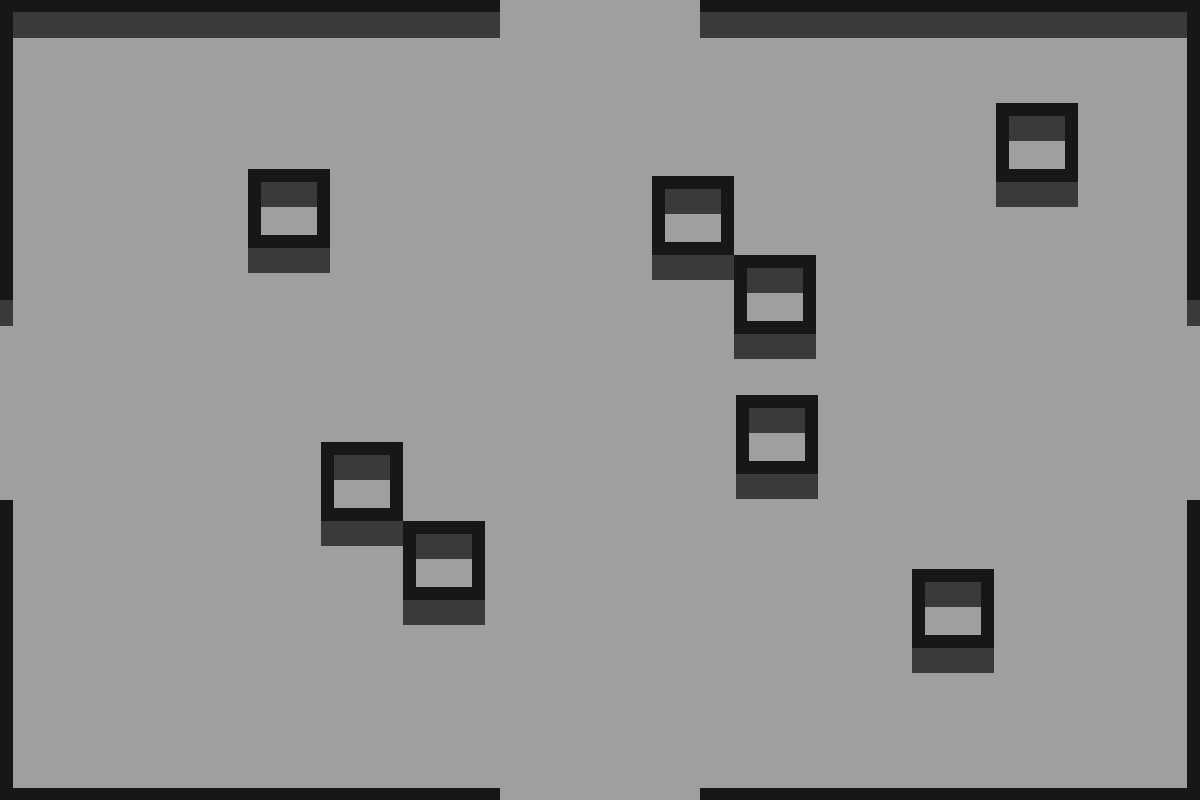
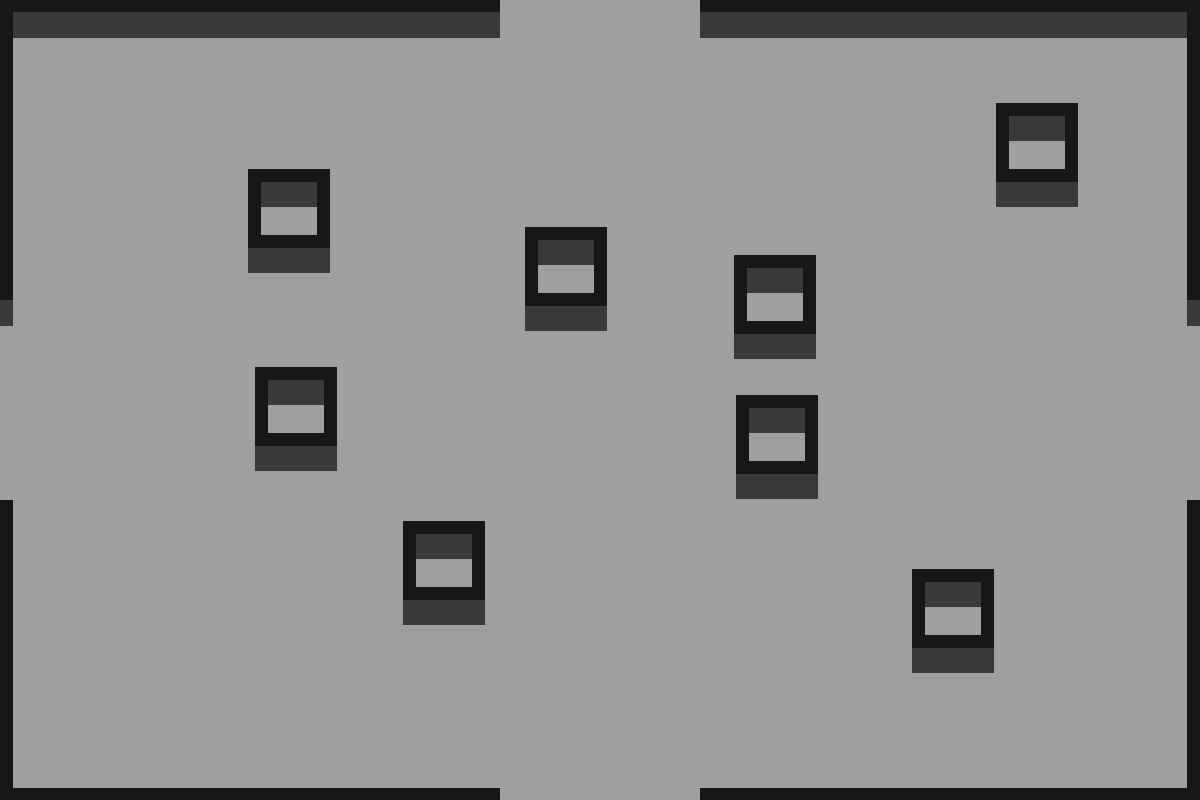
Zmieniona mapa, poprawione chodzenie Zombie

Changed region(s): [[0.4317, 0.2188, 0.6167, 0.4375], [0.185, 0.4375, 0.3392, 0.6875]]

diff --git a/Engine/Zombie.cpp b/Engine/Zombie.cpp
@@ -27,7 +27,7 @@ void Zombie::PreMovement(float dt, const Object& playerObject, std::vector<Obsta
 			aimsUp = false;
 			aimsDown = true;
 			
-			Movement(false, false, false, true, dt, playerObject, obstacles, enemies, dirX, dirY);
+			Movement(false, false, false, true, dt, playerObject, obstacles, enemies, dirX, dirY, distance);
 			
 		}
 		if (blockedLeft) {
@@ -36,7 +36,7 @@ void Zombie::PreMovement(float dt, const Object& playerObject, std::vector<Obsta
 			aimsUp = true;
 			aimsDown = false;
 			
-			Movement(false, false, true, false, dt, playerObject, obstacles, enemies, dirX, dirY);
+			Movement(false, false, true, false, dt, playerObject, obstacles, enemies, dirX, dirY, distance);
 			
 		}
 		if (blockedUp) {
@@ -45,7 +45,7 @@ void Zombie::PreMovement(float dt, const Object& playerObject, std::vector<Obsta
 			aimsUp = false;
 			aimsDown = false;
 			
-			Movement(true, false, false, false, dt, playerObject, obstacles, enemies, dirX, dirY);
+			Movement(true, false, false, false, dt, playerObject, obstacles, enemies, dirX, dirY, distance);
 			
 		}
 		if (blockedDown) {
@@ -54,7 +54,7 @@ void Zombie::PreMovement(float dt, const Object& playerObject, std::vector<Obsta
 			aimsUp = false;
 			aimsDown = false;
 			
-			Movement(false, true, false, false, dt, playerObject, obstacles, enemies, dirX, dirY);
+			Movement(false, true, false, false, dt, playerObject, obstacles, enemies, dirX, dirY, distance);
 			
 		}
 	}
@@ -64,7 +64,7 @@ void Zombie::PreMovement(float dt, const Object& playerObject, std::vector<Obsta
 			aimsLeft = false;
 			aimsDown = false;
 			aimsUp = true;
-			Movement(false, false, true, false, dt, playerObject, obstacles, enemies, dirX, dirY);
+			Movement(false, false, true, false, dt, playerObject, obstacles, enemies, dirX, dirY, distance);
 			
 		}
 		if (dirY > 0 && desiredDistance < distance) {
@@ -72,7 +72,7 @@ void Zombie::PreMovement(float dt, const Object& playerObject, std::vector<Obsta
 			aimsLeft = false;
 			aimsDown = true;
 			aimsUp = false;
-			Movement(false, false, false, true, dt, playerObject, obstacles, enemies, dirX, dirY);
+			Movement(false, false, false, true, dt, playerObject, obstacles, enemies, dirX, dirY, distance);
 			
 		}
 		if (dirX > 0 && desiredDistance < distance) {
@@ -80,7 +80,7 @@ void Zombie::PreMovement(float dt, const Object& playerObject, std::vector<Obsta
 			aimsLeft = false;
 			aimsDown = false;
 			aimsUp = false;
-			Movement(true, false, false, false, dt, playerObject, obstacles, enemies, dirX, dirY);
+			Movement(true, false, false, false, dt, playerObject, obstacles, enemies, dirX, dirY, distance);
 			
 		}
 		if (dirX < 0 && desiredDistance < distance) {
@@ -88,22 +88,27 @@ void Zombie::PreMovement(float dt, const Object& playerObject, std::vector<Obsta
 			aimsLeft = true;
 			aimsDown = false;
 			aimsUp = false;
-			Movement(false, true, false, false, dt, playerObject, obstacles, enemies, dirX, dirY);
+			Movement(false, true, false, false, dt, playerObject, obstacles, enemies, dirX, dirY, distance);
 			
 		}
 		if (desiredDistance >= distance) {
-			Movement(false, false, false, false, dt, playerObject, obstacles, enemies, dirX, dirY);
+			Movement(false, false, false, false, dt, playerObject, obstacles, enemies, dirX, dirY, distance);
 		}
 	}
 }
 
-void Zombie::Movement(bool aim_R, bool aim_L, bool aim_U, bool aim_D, float dt, const Object& playerObject, std::vector<Obstacle> obstacles, std::vector<Enemy*> enemies, float dirX, float dirY)
+void Zombie::Movement(bool aim_R, bool aim_L, bool aim_U, bool aim_D, float dt, const Object& playerObject, std::vector<Obstacle> obstacles, std::vector<Enemy*> enemies, float dirX, float dirY, float distance)
 {
 	float previousX = object.pos.x;
 	float previousY = object.pos.y;
 
 	float playerX = playerObject.pos.x;
 	float playerY = playerObject.pos.y;
+
+	float distanceX = sqrt(dirX * dirX);
+	float distanceY = sqrt(dirY * dirY);
+
+	float distanceToBlock = 100;
 
 	if (aim_R) {
 		aimsRight = true;
@@ -135,7 +140,7 @@ void Zombie::Movement(bool aim_R, bool aim_L, bool aim_U, bool aim_D, float dt, 
 			object.pos.x += dx;
 		}
 		CheckCollisions(obstacles, enemies);
-		if (previousX + object.movement.x > object.pos.x){
+		if (previousX + object.movement.x > object.pos.x && (distanceX >= distanceY || distance >= distanceToBlock)){
 			blockedRight = true;
 		}
 		else {
@@ -177,7 +182,7 @@ void Zombie::Movement(bool aim_R, bool aim_L, bool aim_U, bool aim_D, float dt, 
 		}
 		CheckCollisions(obstacles, enemies);
 
-		if (previousX - object.movement.x < object.pos.x){
+		if (previousX - object.movement.x < object.pos.x &&  (distanceX >= distanceY || distance >= distanceToBlock)){
 			blockedLeft = true;
 		}
 		else {
@@ -216,7 +221,7 @@ void Zombie::Movement(bool aim_R, bool aim_L, bool aim_U, bool aim_D, float dt, 
 		}
 		CheckCollisions(obstacles, enemies);
 
-		if (previousY - object.movement.y < object.pos.y)
+		if (previousY - object.movement.y < object.pos.y && ( distanceX <=  distanceY || distance >= distanceToBlock))
 		{
 			blockedUp = true;
 		}
@@ -256,7 +261,7 @@ void Zombie::Movement(bool aim_R, bool aim_L, bool aim_U, bool aim_D, float dt, 
 			object.pos.y += dy;
 		}
 		CheckCollisions(obstacles, enemies);
-		if (previousY + object.movement.y > object.pos.y)
+		if (previousY + object.movement.y > object.pos.y && (distanceX <= distanceY || distance>= distanceToBlock))
 		{
 			blockedDown = true;
 		}
@@ -298,25 +303,6 @@ void Zombie::CheckCollisions(std::vector<Obstacle> obstacles, std::vector<Enemy*
 	}
 }
 
-bool Zombie::CheckStuck(std::vector<Obstacle> obstacles, std::vector<Enemy*> enemies) //mysle nad zmiana na return object
-{
-	
-	for (auto obs : obstacles) {
-		if (this->IsOverLappingObject(obs.getObject())) {
-			return true;
-		}
-	}
-
-	/*for (auto enem : enemies) {
-		if (this != enem)
-		{
-			if (this->IsOverLappingObject(enem->GetObject())) {
-				return true;
-			}
-		}
-	}*/
-	return false;
-}
 
 bool Zombie::IsOverLappingObject(const Object other)
 {

diff --git a/Engine/Enemy.h b/Engine/Enemy.h
@@ -31,14 +31,13 @@ public:
 	float distance;
 	Enemy(Object object, float health, float probability, bool isAlive, int points);
 	virtual void CheckCollisions(std::vector<Obstacle> obstacles, std::vector<Enemy*> enemies) = 0;
-	virtual bool CheckStuck(std::vector<Obstacle> obstacles, std::vector<Enemy*> enemies) = 0;
 	virtual bool IsOverLappingObject(const Object other) = 0;
 	virtual void DrawEnemy(Graphics& gtx) = 0;
 	virtual void Attack() = 0;
 	virtual void ChangeHealth(float changeHP) = 0;
 	virtual bool IsAlive() = 0;
 	virtual void PreMovement(float dt, const Object& playerObject, std::vector<Obstacle> obstacles, std::vector<Enemy*> enemies) = 0;
-	virtual void Movement(bool aim_R, bool aim_L, bool aim_U, bool aim_D, float dt, const Object& playerObject, std::vector<Obstacle> obstacles, std::vector<Enemy*> enemies, float dirX, float dirY) = 0;
+	virtual void Movement(bool aim_R, bool aim_L, bool aim_U, bool aim_D, float dt, const Object& playerObject, std::vector<Obstacle> obstacles, std::vector<Enemy*> enemies, float dirX, float dirY, float distance) = 0;
 	virtual void Draw(Graphics& gfx) = 0;
 	virtual void Update(float dt) = 0;
 	virtual void CalculateDistance(const Vec2D& pos)=0;

diff --git a/Engine/Zombie.h b/Engine/Zombie.h
@@ -23,14 +23,13 @@ public:
 	Zombie(Object object, float health, float probability, bool isAlive, int points);
 	void Draw(Graphics& gfx)override;
 	void CheckCollisions(std::vector<Obstacle> obstacles, std::vector<Enemy*> enemies)override;
-	bool CheckStuck(std::vector<Obstacle> obstacles, std::vector<Enemy*> enemies)override;
 	bool IsOverLappingObject(const Object other) override;
 	void DrawEnemy(Graphics & gtx)override;
 	void Attack()override;
 	void ChangeHealth(float changeHP)override;
 	bool IsAlive()override;
 	void PreMovement(float dt, const Object& playerObject, std::vector<Obstacle> obstacles, std::vector<Enemy*> enemies);
-	void Movement(bool aim_R, bool aim_L, bool aim_U, bool aim_D, float dt,const Object & playerObject, std::vector<Obstacle> obstacles, std::vector<Enemy*> enemies, float dirX, float dirY)override;
+	void Movement(bool aim_R, bool aim_L, bool aim_U, bool aim_D, float dt,const Object & playerObject, std::vector<Obstacle> obstacles, std::vector<Enemy*> enemies, float dirX, float dirY, float distance)override;
 	void Update(float dt)override;
 	Object GetObject();
 	void CalculateDistance(const Vec2D& pos)override;

diff --git a/Engine/Game.cpp b/Engine/Game.cpp
@@ -35,7 +35,7 @@ Game::Game(MainWindow& wnd)
     mov(0, 0),
     player(Object(Vec2D(56, 52), Vec2D(2, 2), 21, 40), 100, true, new Glock( 0,  300,  1,  150,  1, 1,0.1f))
 {  
-   //enemy.push_back(new Zombie(Object(Vec2D(100, 500), Vec2D(1, 1), 23, 41), 100, 50, true, 5));
+   enemy.push_back(new Zombie(Object(Vec2D(100, 500), Vec2D(1, 1), 23, 41), 100, 50, true, 5));
    enemy.push_back(new Zombie(Object(Vec2D(200, 500), Vec2D(1, 1), 23, 41), 100, 50, true, 5));
    board.InitBoard();
 }
